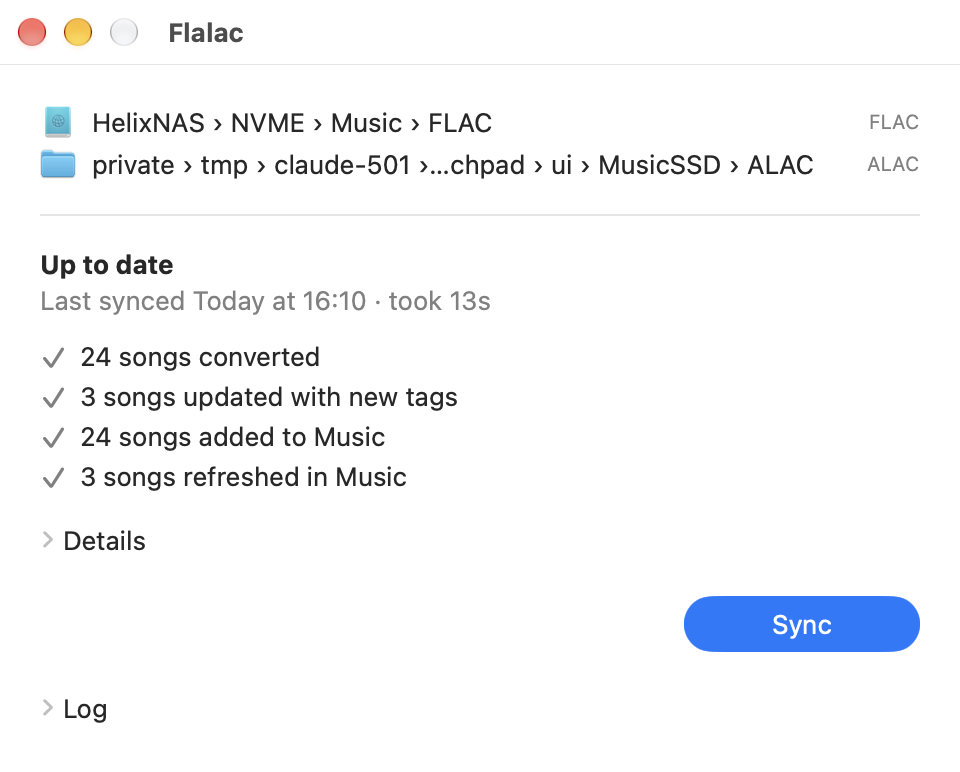
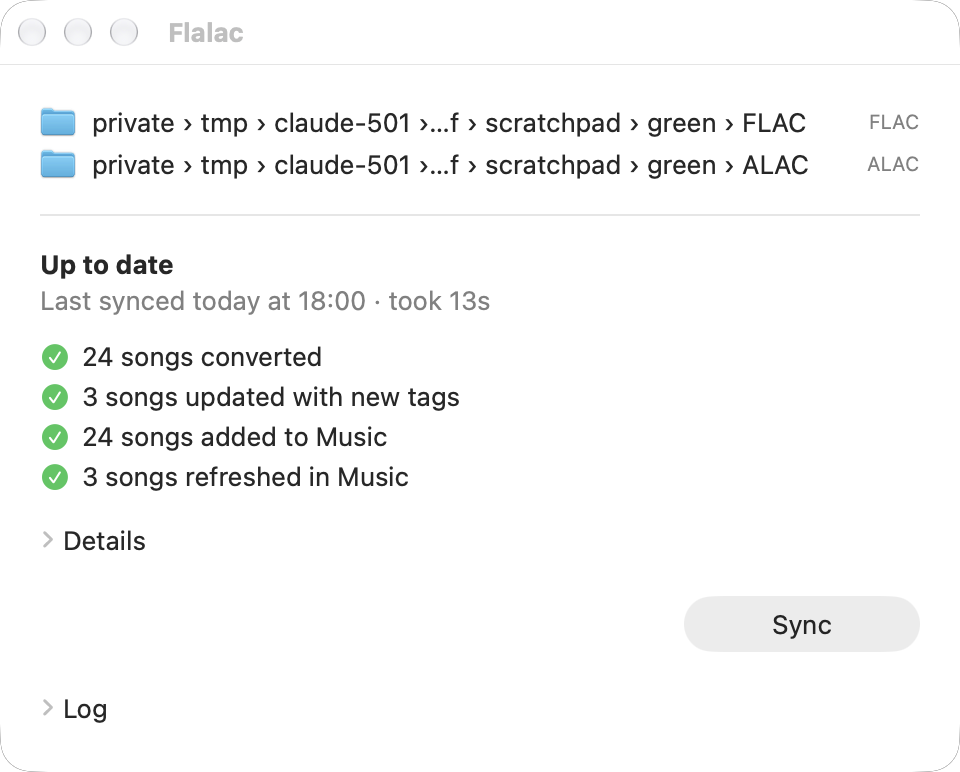
Faster scans over a network share; green system checkmarks
- Songs are identified from the 42-byte FLAC STREAMINFO block instead of reading the whole
  header with its cover art (falls back to the full reader for anything unusual).
- No .lrc/.txt lookups next to the sources when lyrics come from LRCLIB.
- Done steps and changes use the system's green checkmark.circle.fill.

diff --git a/macos/Sources/MainView.swift b/macos/Sources/MainView.swift
@@ -372,18 +372,17 @@ private struct StepRow: View {
             Group {
                 switch state {
                 case .done:
-                    Image(systemName: "checkmark")
-                        .font(.callout.weight(.semibold))
+                    Image(systemName: "checkmark.circle.fill")
+                        .foregroundColor(.green)
                 case .running:
                     ProgressView()
                         .scaleEffect(0.5)
                 case .waiting:
                     Image(systemName: "circle")
-                        .font(.caption2)
+                        .foregroundColor(.secondary)
                 }
             }
             .frame(width: 16, height: 16)
-            .foregroundColor(.secondary)
             Text(title)
                 .foregroundColor(state == .waiting ? .secondary : .primary)
         }

diff --git a/macos/Sources/SummaryView.swift b/macos/Sources/SummaryView.swift
@@ -198,9 +198,8 @@ private struct Changes: View {
         VStack(alignment: .leading, spacing: 4) {
             ForEach(lines, id: \.self) { line in
                 HStack(alignment: .firstTextBaseline, spacing: 6) {
-                    Image(systemName: "checkmark")
-                        .font(.callout.weight(.semibold))
-                        .foregroundColor(.secondary)
+                    Image(systemName: "checkmark.circle.fill")
+                        .foregroundColor(.green)
                     Text(line)
                         .fixedSize(horizontal: false, vertical: true)
                 }

diff --git a/src/flalac/media.py b/src/flalac/media.py
@@ -108,10 +108,31 @@ class AudioFacts:
     stream_md5: str  # FLAC STREAMINFO MD5, "" when absent
 
 
+def _flac_streaminfo(path: Path) -> AudioFacts | None:
+    """The STREAMINFO block every FLAC starts with, read directly: identifying a song needs these
+    42 bytes, not the whole header with its cover art, which is much slower over a share."""
+    with path.open("rb") as stream:
+        head = stream.read(42)
+    if len(head) < 42 or head[:4] != b"fLaC" or head[4] & 0x7F != 0:
+        return None  # e.g. an ID3 tag in front; the full reader handles it
+    block = head[8:42]
+    rate = (block[10] << 12) | (block[11] << 4) | (block[12] >> 4)
+    channels = ((block[12] >> 1) & 0x07) + 1
+    bits = (((block[12] & 0x01) << 4) | (block[13] >> 4)) + 1
+    samples = ((block[13] & 0x0F) << 32) | int.from_bytes(block[14:18], "big")
+    if not rate or not samples:
+        return None
+    md5 = block[18:34].hex() if any(block[18:34]) else ""
+    return AudioFacts("flac", rate, bits, channels, samples / rate, md5)
+
+
 def facts(path: Path) -> AudioFacts | None:
     suffix = path.suffix.lower()
     try:
         if suffix == ".flac":
+            fast = _flac_streaminfo(path)
+            if fast is not None:
+                return fast
             info = FLAC(path).info
             md5 = f"{info.md5_signature:032x}" if info.md5_signature else ""
             return AudioFacts(

diff --git a/tests/test_encode_verify.py b/tests/test_encode_verify.py
@@ -35,3 +35,30 @@ def test_a_wrong_checksum_is_caught(tmp_path):
     audio = dataclasses.replace(facts(song), stream_md5="0" * 32)
     with pytest.raises(encode.EncodeError, match="differs"):
         encode.encode(song, tmp_path / "a.m4a", audio, Settings())
+
+
+def test_quick_header_read_matches_the_full_reader(tmp_path):
+    from mutagen.flac import FLAC
+
+    from flalac.media import _flac_streaminfo
+
+    for rate, seconds in ((44100, 1.0), (48000, 2.5)):
+        song = make_flac(
+            tmp_path / f"{rate}.flac", tags=default_tags("A", 1), rate=rate, seconds=seconds
+        )
+        quick, info = _flac_streaminfo(song), FLAC(song).info
+        assert (quick.sample_rate, quick.bits, quick.channels) == (
+            info.sample_rate,
+            info.bits_per_sample,
+            info.channels,
+        )
+        assert abs(quick.seconds - info.length) < 1e-6
+        assert quick.stream_md5 == f"{info.md5_signature:032x}"
+
+
+def test_not_a_plain_flac_falls_back(tmp_path):
+    from flalac.media import _flac_streaminfo
+
+    odd = tmp_path / "odd.flac"
+    odd.write_bytes(b"ID3" + bytes(60))
+    assert _flac_streaminfo(odd) is None

diff --git a/src/flalac/sync.py b/src/flalac/sync.py
@@ -151,7 +151,9 @@ class Engine:
                 except FileNotFoundError:
                     continue
                 side = 0.0
-                for suffix in (".lrc", ".txt"):
+                # Lyrics files next to the source matter only in sidecar mode; skipping the two
+                # lookups per song keeps scans of a network share short.
+                for suffix in (".lrc", ".txt") if self.s.lyrics != "lrclib" else ():
                     with contextlib.suppress(FileNotFoundError):
                         side = max(side, path.with_suffix(suffix).stat().st_mtime)
                 rel = path.relative_to(root).as_posix()
